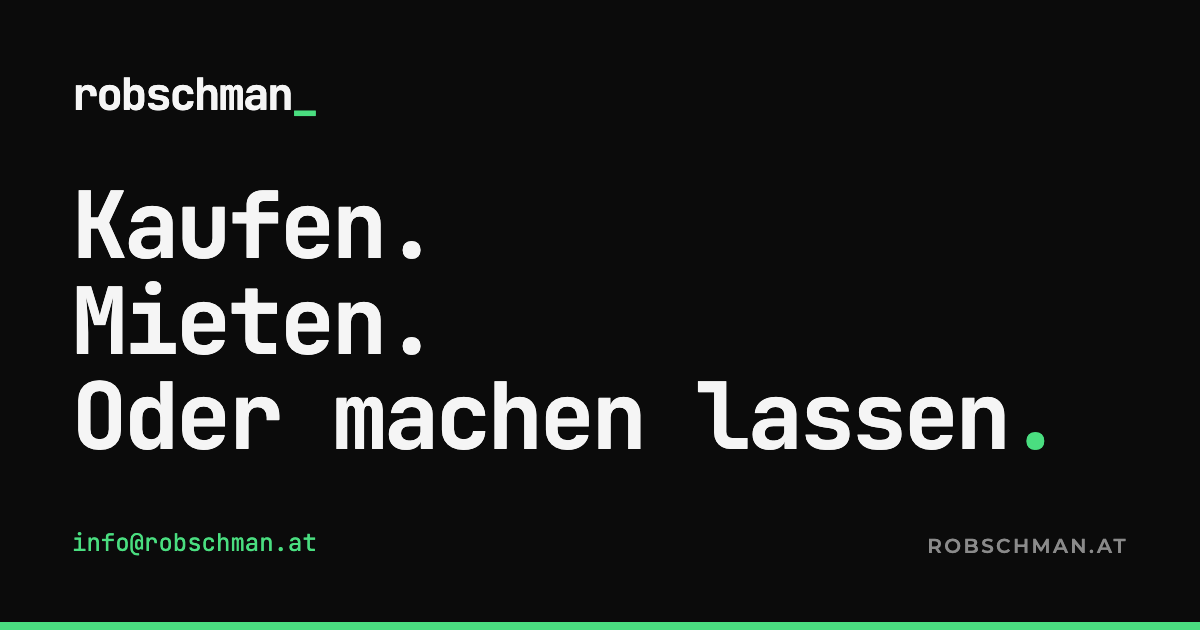
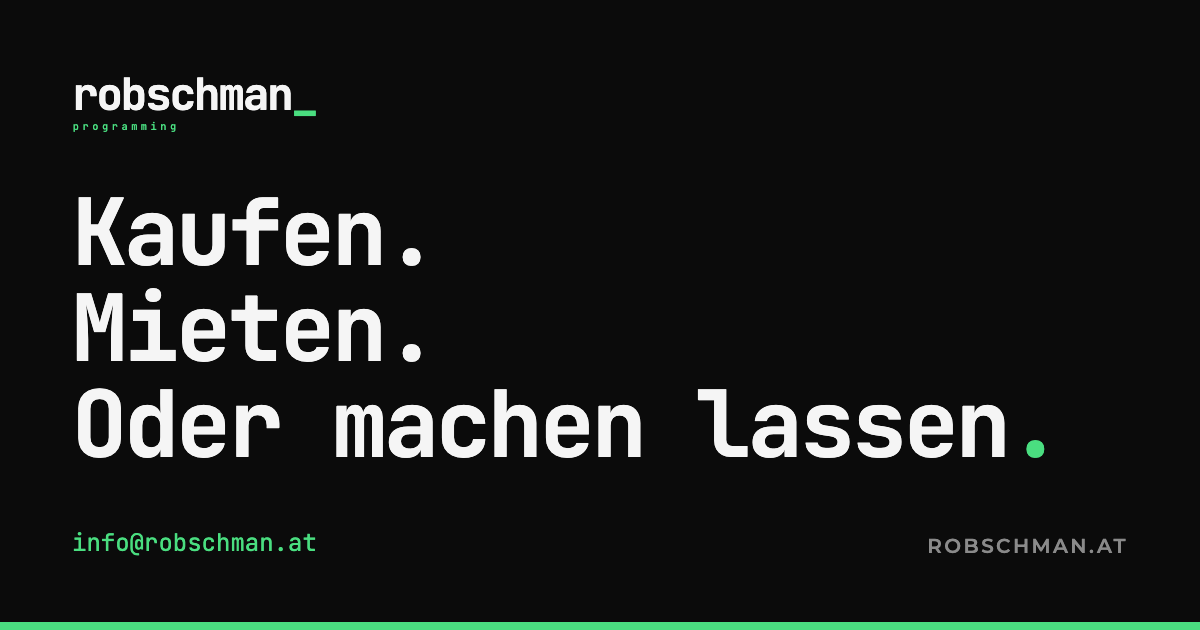
Auf IONOS umgestellt, Wortmarke um "programming" ergänzt
Hosting: IONOS statt GitHub Pages
- CNAME entfernt (brauchte nur GitHub Pages)
- Datenschutz: Hoster-Absatz auf IONOS SE umgeschrieben, USA-Übermittlung
  entfällt damit ersatzlos
- Neuer Abschnitt "Besucherstatistik (IONOS WebAnalytics)": cookielos,
  aus den Server-Protokollen, kein zusätzlicher Anbieter, keine Einwilligung
  nach § 165 Abs. 3 TKG nötig
- README: Veröffentlichen per FileZilla statt git push

Wortmarke (Variante "Gestapelt"):
- "programming" steht klein und gesperrt unter "robschman_", in Grün
- Untergrenze 10px, sonst wäre der Zusatz in der Kopfzeile nur 6px groß
- ergänzt in Kopfzeile, Hero und Fußzeile aller drei Seiten sowie im
  Vorschaubild für WhatsApp

Geprüft auf 320 bis 1920 px: kein seitliches Scrollen, Wortmarke passt
überall in die 64px hohe Kopfzeile.

diff --git a/datenschutz.html b/datenschutz.html
@@ -19,7 +19,7 @@
 <header class="rs-header">
   <div class="rs-header__in">
     <a class="rs-wm rs-wm--md" href="index.html" aria-label="robschman — zur Startseite">robschman<span
-      class="rs-wm__dot" aria-hidden="true">_</span></a>
+      class="rs-wm__dot" aria-hidden="true">_</span><span class="rs-wm__sub">programming</span></a>
     <a class="rs-btn rs-btn--primary rs-btn--sm" href="index.html#kontakt">Schreib mir</a>
   </div>
 </header>
@@ -46,9 +46,12 @@
 
     <h2>Das Wichtigste vorweg</h2>
     <ul>
-      <li><strong>Keine Cookies.</strong> Diese Website setzt keine Cookies.</li>
-      <li><strong>Kein Tracking, keine Analyse.</strong> Es ist kein Besucherzähler,
-        kein Statistik- und kein Werbedienst eingebunden.</li>
+      <li><strong>Keine Cookies.</strong> Diese Website setzt keine Cookies. Deshalb gibt
+        es auch kein Cookie-Fenster.</li>
+      <li><strong>Kein fremder Tracking-Dienst.</strong> Es ist kein Werbenetzwerk und kein
+        Analysedienst von Google, Meta oder ähnlichen Anbietern eingebunden. Die
+        Besucherstatistik erstellt der Hoster selbst aus den Server-Protokollen
+        (siehe unten).</li>
       <li><strong>Keine Formulare.</strong> Es gibt kein Kontaktformular und keine
         Newsletter-Anmeldung. Es werden bewusst keine Adressen gesammelt.</li>
       <li><strong>Keine externen Schriften.</strong> Die verwendeten Schriften liegen auf
@@ -68,11 +71,13 @@
 
     <h2>Server-Protokolle beim Aufruf der Website</h2>
     <p>
-      Diese Website wird bei <strong>GitHub Pages</strong> gehostet, einem Dienst der
-      GitHub, Inc., 88 Colin P. Kelly Jr. Street, San Francisco, CA 94107, USA. Beim Aufruf
-      einer Seite übermittelt der Browser technisch notwendige Daten an den Server. Der
-      Anbieter erhält diese Protokolle nicht ausgewertet, sie fallen aber beim Hoster an.
-      Es handelt sich üblicherweise um:
+      Diese Website wird bei <strong>IONOS SE</strong>, Elgendorfer Straße 57,
+      56410 Montabaur, Deutschland, gehostet. Mit IONOS besteht ein Vertrag zur
+      Auftragsverarbeitung nach Art. 28 DSGVO. Die Server stehen in der Europäischen Union.
+    </p>
+    <p>
+      Beim Aufruf einer Seite übermittelt der Browser technisch notwendige Daten an den
+      Server. Diese werden dort protokolliert. Es handelt sich üblicherweise um:
     </p>
     <ul>
       <li>IP-Adresse des anfragenden Geräts</li>
@@ -85,20 +90,42 @@
     <p>
       <strong>Rechtsgrundlage</strong> ist Art. 6 Abs. 1 lit. f DSGVO. Das berechtigte
       Interesse liegt im technisch fehlerfreien Betrieb und in der Sicherheit der Website.
-      Diese Daten werden nicht mit anderen Datenquellen zusammengeführt.
-    </p>
-    <p>
-      <strong>Übermittlung in die USA.</strong> GitHub ist ein Unternehmen mit Sitz in den
-      Vereinigten Staaten. Eine Übermittlung personenbezogener Daten dorthin ist beim Betrieb
-      der Website daher nicht auszuschließen. GitHub stützt diese Übermittlung auf die
-      Standardvertragsklauseln der Europäischen Kommission. Nähere Angaben finden sich in der
-      Datenschutzerklärung von GitHub:
-      <a href="https://docs.github.com/site-policy/privacy-policies/github-general-privacy-statement"
-         target="_blank" rel="noopener noreferrer">docs.github.com</a>.
+      Diese Daten werden nicht mit anderen Datenquellen zusammengeführt und nicht dazu
+      verwendet, einzelne Personen zu bestimmen.
     </p>
     <p>
       Über die Speicherdauer dieser Protokolle entscheidet der Hoster; sie werden dort nach
       kurzer Zeit gelöscht oder gekürzt.
+    </p>
+
+    <h2>Besucherstatistik (IONOS WebAnalytics)</h2>
+    <p>
+      Um zu sehen, wie oft die Seite aufgerufen wird und welche Inhalte gefragt sind, wird
+      <strong>IONOS WebAnalytics</strong> verwendet. Das ist eine Auswertung, die der Hoster
+      aus den ohnehin anfallenden Server-Protokollen erstellt.
+    </p>
+    <p>Wichtig dabei:</p>
+    <ul>
+      <li>Es werden <strong>keine Cookies</strong> gesetzt und keine Kennung auf deinem
+        Gerät gespeichert.</li>
+      <li>Es wird <strong>kein zusätzlicher Anbieter</strong> eingebunden. Die Auswertung
+        erstellt IONOS als ohnehin beauftragter Hoster; ein Vertrag zur Auftragsverarbeitung
+        nach Art. 28 DSGVO liegt vor.</li>
+      <li>Die IP-Adresse wird dabei <strong>gekürzt beziehungsweise anonymisiert</strong>
+        verarbeitet. Ein Rückschluss auf einzelne Personen ist weder möglich noch
+        beabsichtigt.</li>
+      <li>Es entstehen <strong>keine Nutzerprofile</strong>, und es findet keine
+        geräteübergreifende Verfolgung statt.</li>
+    </ul>
+    <p>
+      <strong>Rechtsgrundlage</strong> ist Art. 6 Abs. 1 lit. f DSGVO. Das berechtigte
+      Interesse liegt darin, die Reichweite der eigenen Website in einfacher Form beurteilen
+      und die Inhalte verbessern zu können. Da weder Cookies gesetzt noch Informationen vom
+      Endgerät ausgelesen werden, ist dafür keine Einwilligung nach § 165 Abs. 3 TKG 2021
+      erforderlich — deshalb gibt es auf dieser Seite auch kein Cookie-Fenster.
+    </p>
+    <p>
+      Der Verarbeitung kannst du jederzeit formlos per E-Mail widersprechen (Art. 21 DSGVO).
     </p>
 
     <h2>Kontaktaufnahme per E-Mail</h2>
@@ -199,7 +226,7 @@
 <footer class="rs-footer">
   <div class="rs-footer__in">
     <div>
-      <span class="rs-wm rs-wm--md">robschman<span class="rs-wm__dot" aria-hidden="true">_</span></span>
+      <span class="rs-wm rs-wm--md">robschman<span class="rs-wm__dot" aria-hidden="true">_</span><span class="rs-wm__sub">programming</span></span>
       <a class="rs-footer__mail" href="mailto:info@robschman.at">info@robschman.at</a>
     </div>
     <div class="rs-footer__cols">

diff --git a/css/styles.css b/css/styles.css
@@ -398,16 +398,46 @@ code, kbd, samp, pre {
    BLOCK 5 — BAUSTEINE   (rs- = robschman)
    ========================================================================== */
 
-/* --- Wortmarke: "robschman" wird IMMER klein geschrieben ------------------ */
-.rs-wm { display: inline-flex; align-items: baseline; font-family: var(--font-display);
+/* --- Wortmarke -----------------------------------------------------------
+   "robschman" wird IMMER klein geschrieben, mit gruenem Cursor dahinter.
+   Darunter steht gesperrt "programming" (der volle Markenname).
+
+   Aufbau im HTML:
+     <span class="rs-wm rs-wm--md">robschman<span class="rs-wm__dot">_</span>
+       <span class="rs-wm__sub">programming</span></span>
+
+   Die Wortmarke ist ein BLOCK (kein inline-flex mehr), weil "programming" in
+   einer zweiten Zeile darunter sitzt. */
+.rs-wm { display: inline-block; font-family: var(--font-display);
   font-weight: 700; letter-spacing: -0.045em; color: var(--text); text-decoration: none;
   line-height: 1; padding: 0.4em; text-transform: lowercase; }
 .rs-wm:hover { text-decoration: none; color: var(--text); }
 .rs-wm__dot { color: var(--accent); margin-left: 0.06em; }   /* der gruene Cursor */
+
+/* Der Zusatz "programming" - klein, weit gesperrt, in der Markenfarbe Gruen.
+   Groesse und Sperrung sind relativ (em), damit sie in jeder Groesse mitwachsen.
+
+   Das "max(10px, ...)" ist wichtig: In der Kopfzeile ist die Wortmarke nur 26 px
+   gross, ein Viertel davon waeren 6 px - das kann niemand mehr lesen. Deshalb
+   wird der Zusatz nie kleiner als 10 px. Im Hero (72 px) greift die Untergrenze
+   nicht, dort sind es 17 px. */
+.rs-wm__sub { display: block; color: var(--accent);
+  font-size: max(10px, 0.235em); font-weight: 500; letter-spacing: 0.32em;
+  text-transform: lowercase; margin-top: 0.45em; padding-left: 0.08em; }
+
 .rs-wm--sm { font-size: 18px; }
 .rs-wm--md { font-size: 26px; }
 .rs-wm--lg { font-size: var(--fs-h1); }
 .rs-wm--xl { font-size: var(--fs-display); letter-spacing: -0.05em; }
+
+/* Auf der Terracotta-Flaeche wird aus dem Gruen Weiss (Gruen auf Terracotta
+   erreicht nur 3,12:1). Das erledigt --accent in .theme-terra automatisch. */
+
+/* Am Handy wird die Kopfzeile sonst zu hoch: Zusatz etwas enger anlegen. */
+@media (max-width: 700px) {
+  .rs-header .rs-wm { padding-block: 0.25em; }
+  .rs-header .rs-wm__sub { margin-top: 0.35em; letter-spacing: 0.28em; }
+}
 
 /* --- Claim-Dreiklang ----------------------------------------------------- */
 .rs-claim { display: flex; flex-wrap: wrap; font-family: var(--font-display); font-weight: 700;

diff --git a/index.html b/index.html
@@ -47,7 +47,7 @@
 <header class="rs-header">
   <div class="rs-header__in">
     <a class="rs-wm rs-wm--md" href="#top" aria-label="robschman — zum Seitenanfang">robschman<span
-      class="rs-wm__dot" aria-hidden="true">_</span></a>
+      class="rs-wm__dot" aria-hidden="true">_</span><span class="rs-wm__sub">programming</span></a>
     <a class="rs-btn rs-btn--primary rs-btn--sm" href="#kontakt">Schreib mir</a>
   </div>
 </header>
@@ -70,7 +70,7 @@
       </p>
 
       <div class="cs-hero__wm">
-        <h1 class="rs-wm rs-wm--xl">robschman<span class="rs-wm__dot" aria-hidden="true">_</span></h1>
+        <h1 class="rs-wm rs-wm--xl">robschman<span class="rs-wm__dot" aria-hidden="true">_</span><span class="rs-wm__sub">programming</span></h1>
       </div>
 
       <p class="rs-claim rs-claim--lg rs-claim--stack cs-hero__claim">
@@ -391,7 +391,7 @@
   <div class="rs-footer__in">
 
     <div>
-      <span class="rs-wm rs-wm--md">robschman<span class="rs-wm__dot" aria-hidden="true">_</span></span>
+      <span class="rs-wm rs-wm--md">robschman<span class="rs-wm__dot" aria-hidden="true">_</span><span class="rs-wm__sub">programming</span></span>
       <p class="rs-claim rs-claim--sm rs-footer__claim">
         <span class="rs-claim__part">Kaufen<span class="rs-claim__dot">.</span></span><span
               class="rs-claim__part">Mieten<span class="rs-claim__dot">.</span></span><span

diff --git a/_tools/og-image.html b/_tools/og-image.html
@@ -22,7 +22,10 @@ html,body { margin:0; padding:0; background:#0B0B0B; }
 .og::after { content:""; position:absolute; left:0; right:0; bottom:0; height:8px; background:#4ADE80; }
 .wm { font-family:'JetBrains Mono',monospace; font-weight:700; font-size:44px;
   letter-spacing:-.045em; color:#F5F5F5; line-height:1; }
-.wm span { color:#4ADE80; }
+.wm .cur { color:#4ADE80; }
+/* "programming" klein und gesperrt darunter, in der Markenfarbe */
+.wm .sub { display:block; color:#4ADE80; font-size:.235em; font-weight:500;
+  letter-spacing:.34em; margin-top:.45em; padding-left:.08em; }
 .claim { font-family:'JetBrains Mono',monospace; font-weight:700; font-size:92px;
   line-height:1.04; letter-spacing:-.035em; color:#F5F5F5; margin:0; }
 .claim b { color:#4ADE80; font-weight:700; }
@@ -34,7 +37,7 @@ html,body { margin:0; padding:0; background:#0B0B0B; }
 </head>
 <body>
 <div class="og">
-  <div class="wm">robschman<span>_</span></div>
+  <div class="wm">robschman<span class="cur">_</span><span class="sub">programming</span></div>
   <p class="claim">Kaufen.<br>Mieten.<br>Oder machen lassen<b>.</b></p>
   <div class="foot">
     <span class="mail">info@robschman.at</span>

diff --git a/impressum.html b/impressum.html
@@ -19,7 +19,7 @@
 <header class="rs-header">
   <div class="rs-header__in">
     <a class="rs-wm rs-wm--md" href="index.html" aria-label="robschman — zur Startseite">robschman<span
-      class="rs-wm__dot" aria-hidden="true">_</span></a>
+      class="rs-wm__dot" aria-hidden="true">_</span><span class="rs-wm__sub">programming</span></a>
     <a class="rs-btn rs-btn--primary rs-btn--sm" href="index.html#kontakt">Schreib mir</a>
   </div>
 </header>
@@ -190,7 +190,7 @@
 <footer class="rs-footer">
   <div class="rs-footer__in">
     <div>
-      <span class="rs-wm rs-wm--md">robschman<span class="rs-wm__dot" aria-hidden="true">_</span></span>
+      <span class="rs-wm rs-wm--md">robschman<span class="rs-wm__dot" aria-hidden="true">_</span><span class="rs-wm__sub">programming</span></span>
       <a class="rs-footer__mail" href="mailto:info@robschman.at">info@robschman.at</a>
     </div>
     <div class="rs-footer__cols">

diff --git a/README.md b/README.md
@@ -100,7 +100,30 @@ Dann am iPhone im Browser aufrufen: `http://<diese-IP>:8123`
 
 ## So veröffentliche ich Änderungen
 
-Die Seite liegt auf GitHub Pages. Nach dem Ändern:
+Die Seite liegt bei **IONOS** — im selben Webhosting-Paket wie der US-Aktien-Screener,
+also ohne zusätzlichen Vertrag. Hochgeladen wird per **FileZilla**, genau wie du es
+von der Screener-Landingpage kennst.
+
+**Was hochgehört** (alles außer den Hilfsordnern):
+
+```
+index.html   impressum.html   datenschutz.html
+css/         js/              assets/
+```
+
+**Was NICHT hochgehört:**
+
+- `assets/_original/` — die Roh-Screenshots, 22 MB, werden auf dem Server nicht gebraucht
+- `_tools/` — die Hilfsskripte laufen nur bei dir am Mac
+- `README.md`, `.gitignore`, `.git/`
+
+Am einfachsten lädst du beim ersten Mal alles hoch und später nur noch die Dateien,
+die du geändert hast.
+
+### Vorher lokal sichern (empfehlenswert)
+
+Der Ordner ist auch ein Git-Ordner. Damit hast du jede Änderung nachvollziehbar und
+kannst zurück, wenn etwas schiefgeht:
 
 ```
 cd "/Users/robschmansimac/Claude Projekte/robschman programming/website"
@@ -114,11 +137,13 @@ git add -A
 git commit -m "Was du geändert hast"
 ```
 
-```
-git push
-```
+Das bleibt auf deinem Mac — es geht nichts ins Internet.
 
-Nach etwa einer Minute ist die Änderung unter robschman.at live.
+### Besucherzahlen ansehen
+
+**analytics.ionos.de** → Domain `robschman.at`. Die Statistik ist cookielos und wird
+aus den Server-Protokollen erstellt; sie zählt ab dem Tag, an dem du sie im
+IONOS-Konto einschaltest.
 
 ---
 
@@ -130,11 +155,10 @@ impressum.html        Impressum und Offenlegung
 datenschutz.html      Datenschutzerklärung
 css/styles.css        Alle Gestaltung, in 9 kommentierte Blöcke geteilt
 js/script.js          >>> HIER die Programm-Liste pflegen <<<
-CNAME                 Sagt GitHub, welche Domain zur Seite gehört
 assets/fonts/         Die Schriften (liegen lokal, nicht bei Google)
 assets/screenshots/   Die aufbereiteten Bilder der Programme
-assets/_original/     Die Roh-Screenshots (nur am Mac, nicht im Internet)
-_tools/               Hilfsskripte für Bilder
+assets/_original/     Die Roh-Screenshots (nur am Mac, nicht hochladen)
+_tools/               Hilfsskripte für Bilder (nur am Mac, nicht hochladen)
 ```
 
 ---
